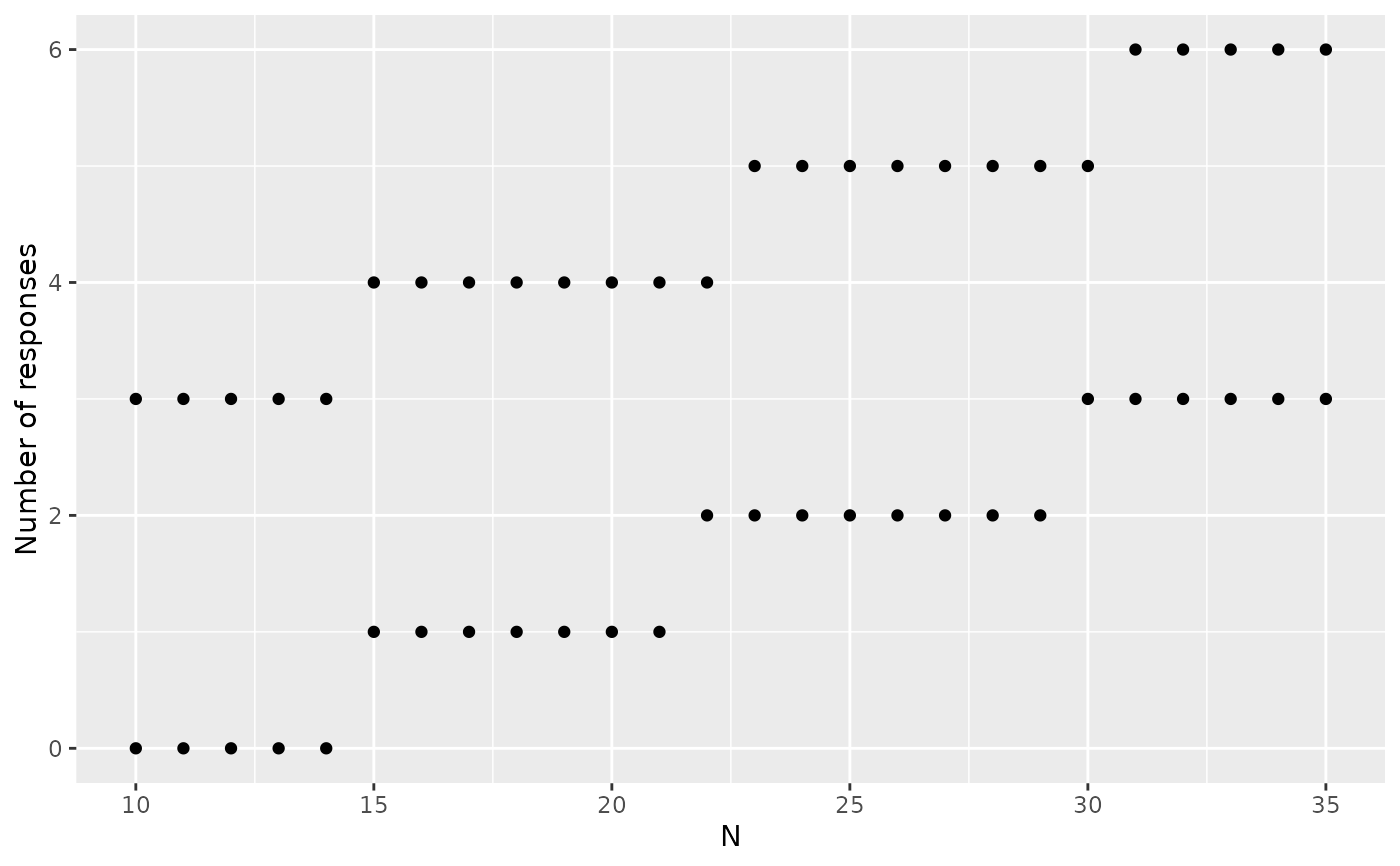
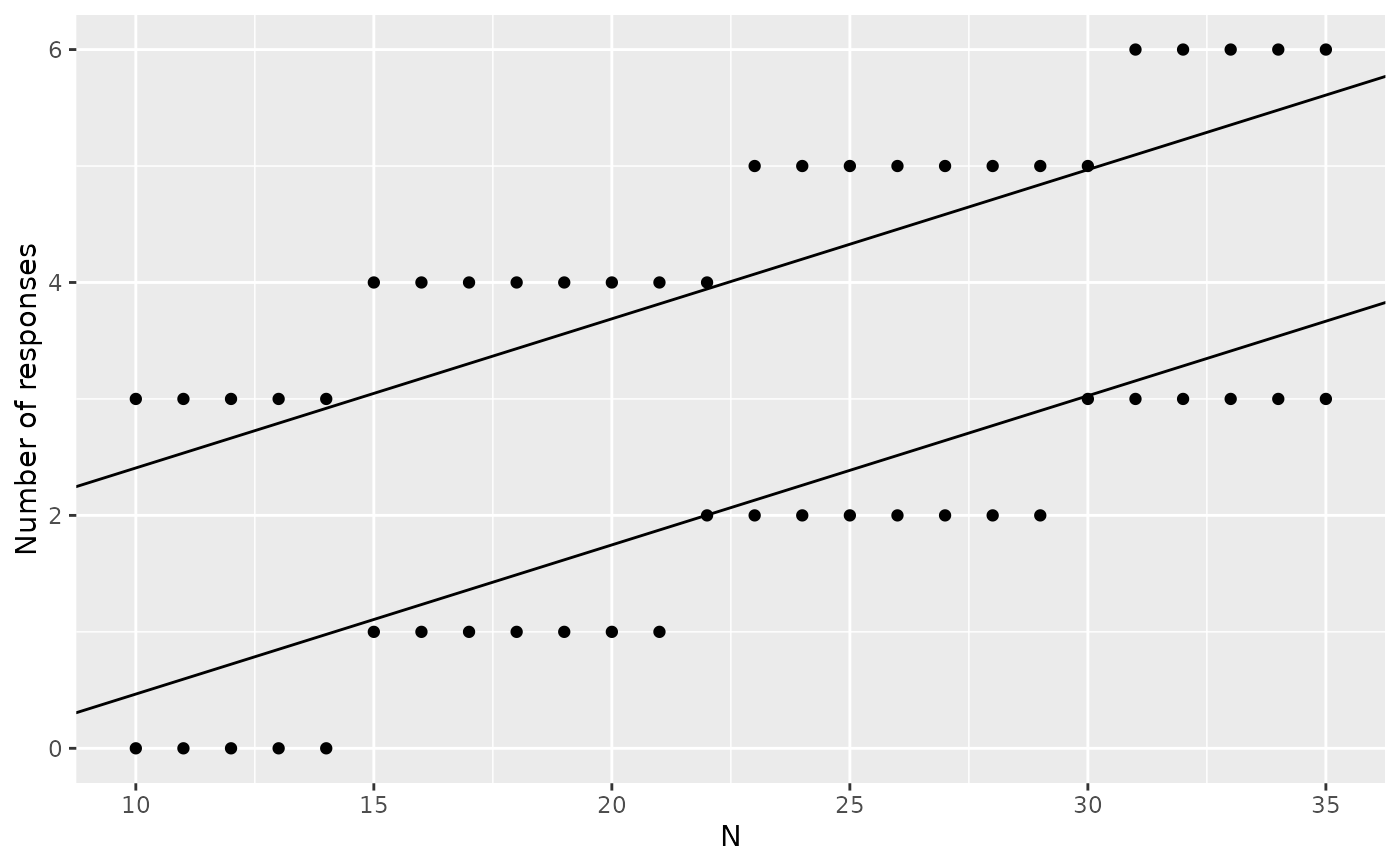
Deploying to gh-pages from @ keaven/gsDesign@06512a096569ad737f063e44681eef2b8c41d623 🚀

diff --git a/authors.html b/authors.html
@@ -5,7 +5,7 @@
       fontURL: "https://cdn.jsdelivr.net/npm/mathjax@3.2.2/es5/output/chtml/fonts/woff-v2"
     }
   };
-</script><script src="deps/jquery-3.6.0/jquery-3.6.0.min.js"></script><meta name="viewport" content="width=device-width, initial-scale=1, shrink-to-fit=no"><link href="deps/bootstrap-5.3.1/bootstrap.min.css" rel="stylesheet"><script src="deps/bootstrap-5.3.1/bootstrap.bundle.min.js"></script><link href="deps/font-awesome-6.5.2/css/all.min.css" rel="stylesheet"><link href="deps/font-awesome-6.5.2/css/v4-shims.min.css" rel="stylesheet"><script src="deps/headroom-0.11.0/headroom.min.js"></script><script src="deps/headroom-0.11.0/jQuery.headroom.min.js"></script><script src="deps/bootstrap-toc-1.0.1/bootstrap-toc.min.js"></script><script src="deps/clipboard.js-2.0.11/clipboard.min.js"></script><script src="deps/search-1.0.0/autocomplete.jquery.min.js"></script><script src="deps/search-1.0.0/fuse.min.js"></script><script src="deps/search-1.0.0/mark.min.js"></script><!-- pkgdown --><script src="pkgdown.js"></script><meta property="og:title" content="Authors and Citation"><meta property="og:image" content="https://keaven.github.io/gsDesign/logo.png"></head><body>
+</script><script src="deps/jquery-3.6.0/jquery-3.6.0.min.js"></script><meta name="viewport" content="width=device-width, initial-scale=1, shrink-to-fit=no"><link href="deps/bootstrap-5.3.8/bootstrap.min.css" rel="stylesheet"><script src="deps/bootstrap-5.3.8/bootstrap.bundle.min.js"></script><link href="deps/font-awesome-6.5.2/css/all.min.css" rel="stylesheet"><link href="deps/font-awesome-6.5.2/css/v4-shims.min.css" rel="stylesheet"><script src="deps/headroom-0.11.0/headroom.min.js"></script><script src="deps/headroom-0.11.0/jQuery.headroom.min.js"></script><script src="deps/bootstrap-toc-1.0.1/bootstrap-toc.min.js"></script><script src="deps/clipboard.js-2.0.11/clipboard.min.js"></script><script src="deps/search-1.0.0/autocomplete.jquery.min.js"></script><script src="deps/search-1.0.0/fuse.min.js"></script><script src="deps/search-1.0.0/mark.min.js"></script><!-- pkgdown --><script src="pkgdown.js"></script><meta property="og:title" content="Authors and Citation"><meta property="og:image" content="https://keaven.github.io/gsDesign/logo.png"></head><body>
     <a href="#main" class="visually-hidden-focusable">Skip to contents</a>
 
 
@@ -13,7 +13,7 @@
 
     <a class="navbar-brand me-2" href="index.html">gsDesign</a>
 
-    <small class="nav-text text-muted me-auto" data-bs-toggle="tooltip" data-bs-placement="bottom" title="">3.9.1</small>
+    <small class="nav-text text-muted me-auto" data-bs-toggle="tooltip" data-bs-placement="bottom" title="">3.9.0.9005</small>
 
 
     <button class="navbar-toggler" type="button" data-bs-toggle="collapse" data-bs-target="#navbar" aria-controls="navbar" aria-expanded="false" aria-label="Toggle navigation">
@@ -56,13 +56,13 @@
 
       <p>Anderson K (2026).
 <em>gsDesign: Group Sequential Design</em>.
-R package version 3.9.1, <a href="https://keaven.github.io/gsDesign/">https://keaven.github.io/gsDesign/</a>.
+R package version 3.9.0.9005, <a href="https://keaven.github.io/gsDesign/">https://keaven.github.io/gsDesign/</a>.
 </p>
       <pre>@Manual{,
   title = {gsDesign: Group Sequential Design},
   author = {Keaven Anderson},
   year = {2026},
-  note = {R package version 3.9.1},
+  note = {R package version 3.9.0.9005},
   url = {https://keaven.github.io/gsDesign/},
 }</pre>
     </div>

diff --git a/reference/gsDesign-package.html b/reference/gsDesign-package.html
@@ -5,7 +5,7 @@
       fontURL: "https://cdn.jsdelivr.net/npm/mathjax@3.2.2/es5/output/chtml/fonts/woff-v2"
     }
   };
-</script><script src="../deps/jquery-3.6.0/jquery-3.6.0.min.js"></script><meta name="viewport" content="width=device-width, initial-scale=1, shrink-to-fit=no"><link href="../deps/bootstrap-5.3.1/bootstrap.min.css" rel="stylesheet"><script src="../deps/bootstrap-5.3.1/bootstrap.bundle.min.js"></script><link href="../deps/font-awesome-6.5.2/css/all.min.css" rel="stylesheet"><link href="../deps/font-awesome-6.5.2/css/v4-shims.min.css" rel="stylesheet"><script src="../deps/headroom-0.11.0/headroom.min.js"></script><script src="../deps/headroom-0.11.0/jQuery.headroom.min.js"></script><script src="../deps/bootstrap-toc-1.0.1/bootstrap-toc.min.js"></script><script src="../deps/clipboard.js-2.0.11/clipboard.min.js"></script><script src="../deps/search-1.0.0/autocomplete.jquery.min.js"></script><script src="../deps/search-1.0.0/fuse.min.js"></script><script src="../deps/search-1.0.0/mark.min.js"></script><!-- pkgdown --><script src="../pkgdown.js"></script><meta property="og:title" content="gsDesign: Group Sequential Design — gsDesign-package"><meta name="description" content='
+</script><script src="../deps/jquery-3.6.0/jquery-3.6.0.min.js"></script><meta name="viewport" content="width=device-width, initial-scale=1, shrink-to-fit=no"><link href="../deps/bootstrap-5.3.8/bootstrap.min.css" rel="stylesheet"><script src="../deps/bootstrap-5.3.8/bootstrap.bundle.min.js"></script><link href="../deps/font-awesome-6.5.2/css/all.min.css" rel="stylesheet"><link href="../deps/font-awesome-6.5.2/css/v4-shims.min.css" rel="stylesheet"><script src="../deps/headroom-0.11.0/headroom.min.js"></script><script src="../deps/headroom-0.11.0/jQuery.headroom.min.js"></script><script src="../deps/bootstrap-toc-1.0.1/bootstrap-toc.min.js"></script><script src="../deps/clipboard.js-2.0.11/clipboard.min.js"></script><script src="../deps/search-1.0.0/autocomplete.jquery.min.js"></script><script src="../deps/search-1.0.0/fuse.min.js"></script><script src="../deps/search-1.0.0/mark.min.js"></script><!-- pkgdown --><script src="../pkgdown.js"></script><meta property="og:title" content="gsDesign: Group Sequential Design — gsDesign-package"><meta name="description" content='
 Derives group sequential clinical trial designs and describes their properties. Particular focus on time-to-event, binary, and continuous outcomes. Largely based on methods described in Jennison, Christopher and Turnbull, Bruce W., 2000, "Group Sequential Methods with Applications to Clinical Trials" ISBN: 0-8493-0316-8.'><meta property="og:description" content='
 Derives group sequential clinical trial designs and describes their properties. Particular focus on time-to-event, binary, and continuous outcomes. Largely based on methods described in Jennison, Christopher and Turnbull, Bruce W., 2000, "Group Sequential Methods with Applications to Clinical Trials" ISBN: 0-8493-0316-8.'><meta property="og:image" content="https://keaven.github.io/gsDesign/logo.png"></head><body>
     <a href="#main" class="visually-hidden-focusable">Skip to contents</a>
@@ -15,7 +15,7 @@ Derives group sequential clinical trial designs and describes their properties. 
 
     <a class="navbar-brand me-2" href="../index.html">gsDesign</a>
 
-    <small class="nav-text text-muted me-auto" data-bs-toggle="tooltip" data-bs-placement="bottom" title="">3.9.1</small>
+    <small class="nav-text text-muted me-auto" data-bs-toggle="tooltip" data-bs-placement="bottom" title="">3.9.0.9005</small>
 
 
     <button class="navbar-toggler" type="button" data-bs-toggle="collapse" data-bs-target="#navbar" aria-controls="navbar" aria-expanded="false" aria-label="Toggle navigation">
@@ -57,7 +57,8 @@ Derives group sequential clinical trial designs and describes their properties. 
     <div class="section level2">
     <h2 id="author">Author<a class="anchor" aria-label="anchor" href="#author"></a></h2>
     <p><strong>Maintainer</strong>: Keaven Anderson <a href="mailto:[email redacted]">[email redacted]</a></p>
-<p>Other contributors:</p><ul><li><p>Merck &amp; Co., Inc., Rahway, NJ, USA and its affiliates (<a href="https://ror.org/02891sr49" class="external-link">ROR</a>) [copyright holder]</p></li>
+<p>Authors:</p><ul><li><p>Keaven Anderson <a href="mailto:[email redacted]">[email redacted]</a></p></li>
+</ul><p>Other contributors:</p><ul><li><p>Merck &amp; Co., Inc., Rahway, NJ, USA and its affiliates (<a href="https://ror.org/02891sr49" class="external-link">ROR</a>) [copyright holder]</p></li>
 </ul></div>
 
   </main><aside class="col-md-3"><nav id="toc" aria-label="Table of contents"><h2>On this page</h2>

diff --git a/404.html b/404.html
@@ -18,8 +18,8 @@
     }
   };
 </script><script src="https://keaven.github.io/gsDesign/deps/jquery-3.6.0/jquery-3.6.0.min.js"></script><meta name="viewport" content="width=device-width, initial-scale=1, shrink-to-fit=no">
-<link href="https://keaven.github.io/gsDesign/deps/bootstrap-5.3.1/bootstrap.min.css" rel="stylesheet">
-<script src="https://keaven.github.io/gsDesign/deps/bootstrap-5.3.1/bootstrap.bundle.min.js"></script><link href="https://keaven.github.io/gsDesign/deps/font-awesome-6.5.2/css/all.min.css" rel="stylesheet">
+<link href="https://keaven.github.io/gsDesign/deps/bootstrap-5.3.8/bootstrap.min.css" rel="stylesheet">
+<script src="https://keaven.github.io/gsDesign/deps/bootstrap-5.3.8/bootstrap.bundle.min.js"></script><link href="https://keaven.github.io/gsDesign/deps/font-awesome-6.5.2/css/all.min.css" rel="stylesheet">
 <link href="https://keaven.github.io/gsDesign/deps/font-awesome-6.5.2/css/v4-shims.min.css" rel="stylesheet">
 <script src="https://keaven.github.io/gsDesign/deps/headroom-0.11.0/headroom.min.js"></script><script src="https://keaven.github.io/gsDesign/deps/headroom-0.11.0/jQuery.headroom.min.js"></script><script src="https://keaven.github.io/gsDesign/deps/bootstrap-toc-1.0.1/bootstrap-toc.min.js"></script><script src="https://keaven.github.io/gsDesign/deps/clipboard.js-2.0.11/clipboard.min.js"></script><script src="https://keaven.github.io/gsDesign/deps/search-1.0.0/autocomplete.jquery.min.js"></script><script src="https://keaven.github.io/gsDesign/deps/search-1.0.0/fuse.min.js"></script><script src="https://keaven.github.io/gsDesign/deps/search-1.0.0/mark.min.js"></script><!-- pkgdown --><script src="https://keaven.github.io/gsDesign/pkgdown.js"></script><meta property="og:title" content="Page not found (404)">
 <meta property="og:image" content="https://keaven.github.io/gsDesign/logo.png">
@@ -32,7 +32,7 @@
 
     <a class="navbar-brand me-2" href="https://keaven.github.io/gsDesign/index.html">gsDesign</a>
 
-    <small class="nav-text text-muted me-auto" data-bs-toggle="tooltip" data-bs-placement="bottom" title="">3.9.1</small>
+    <small class="nav-text text-muted me-auto" data-bs-toggle="tooltip" data-bs-placement="bottom" title="">3.9.0.9005</small>
 
 
     <button class="navbar-toggler" type="button" data-bs-toggle="collapse" data-bs-target="#navbar" aria-controls="navbar" aria-expanded="false" aria-label="Toggle navigation">

diff --git a/articles/ConditionalErrorSpending.html b/articles/ConditionalErrorSpending.html
@@ -18,8 +18,8 @@
     }
   };
 </script><script src="../deps/jquery-3.6.0/jquery-3.6.0.min.js"></script><meta name="viewport" content="width=device-width, initial-scale=1, shrink-to-fit=no">
-<link href="../deps/bootstrap-5.3.1/bootstrap.min.css" rel="stylesheet">
-<script src="../deps/bootstrap-5.3.1/bootstrap.bundle.min.js"></script><link href="../deps/font-awesome-6.5.2/css/all.min.css" rel="stylesheet">
+<link href="../deps/bootstrap-5.3.8/bootstrap.min.css" rel="stylesheet">
+<script src="../deps/bootstrap-5.3.8/bootstrap.bundle.min.js"></script><link href="../deps/font-awesome-6.5.2/css/all.min.css" rel="stylesheet">
 <link href="../deps/font-awesome-6.5.2/css/v4-shims.min.css" rel="stylesheet">
 <script src="../deps/headroom-0.11.0/headroom.min.js"></script><script src="../deps/headroom-0.11.0/jQuery.headroom.min.js"></script><script src="../deps/bootstrap-toc-1.0.1/bootstrap-toc.min.js"></script><script src="../deps/clipboard.js-2.0.11/clipboard.min.js"></script><script src="../deps/search-1.0.0/autocomplete.jquery.min.js"></script><script src="../deps/search-1.0.0/fuse.min.js"></script><script src="../deps/search-1.0.0/mark.min.js"></script><!-- pkgdown --><script src="../pkgdown.js"></script><meta property="og:title" content="Conditional error spending functions">
 </head>
@@ -31,7 +31,7 @@
 
     <a class="navbar-brand me-2" href="../index.html">gsDesign</a>
 
-    <small class="nav-text text-muted me-auto" data-bs-toggle="tooltip" data-bs-placement="bottom" title="">3.9.1</small>
+    <small class="nav-text text-muted me-auto" data-bs-toggle="tooltip" data-bs-placement="bottom" title="">3.9.0.9005</small>
 
 
     <button class="navbar-toggler" type="button" data-bs-toggle="collapse" data-bs-target="#navbar" aria-controls="navbar" aria-expanded="false" aria-label="Toggle navigation">

diff --git a/articles/ConditionalPowerPlot.html b/articles/ConditionalPowerPlot.html
@@ -18,8 +18,8 @@
     }
   };
 </script><script src="../deps/jquery-3.6.0/jquery-3.6.0.min.js"></script><meta name="viewport" content="width=device-width, initial-scale=1, shrink-to-fit=no">
-<link href="../deps/bootstrap-5.3.1/bootstrap.min.css" rel="stylesheet">
-<script src="../deps/bootstrap-5.3.1/bootstrap.bundle.min.js"></script><link href="../deps/font-awesome-6.5.2/css/all.min.css" rel="stylesheet">
+<link href="../deps/bootstrap-5.3.8/bootstrap.min.css" rel="stylesheet">
+<script src="../deps/bootstrap-5.3.8/bootstrap.bundle.min.js"></script><link href="../deps/font-awesome-6.5.2/css/all.min.css" rel="stylesheet">
 <link href="../deps/font-awesome-6.5.2/css/v4-shims.min.css" rel="stylesheet">
 <script src="../deps/headroom-0.11.0/headroom.min.js"></script><script src="../deps/headroom-0.11.0/jQuery.headroom.min.js"></script><script src="../deps/bootstrap-toc-1.0.1/bootstrap-toc.min.js"></script><script src="../deps/clipboard.js-2.0.11/clipboard.min.js"></script><script src="../deps/search-1.0.0/autocomplete.jquery.min.js"></script><script src="../deps/search-1.0.0/fuse.min.js"></script><script src="../deps/search-1.0.0/mark.min.js"></script><!-- pkgdown --><script src="../pkgdown.js"></script><meta property="og:title" content="Conditional power and conditional error">
 </head>
@@ -31,7 +31,7 @@
 
     <a class="navbar-brand me-2" href="../index.html">gsDesign</a>
 
-    <small class="nav-text text-muted me-auto" data-bs-toggle="tooltip" data-bs-placement="bottom" title="">3.9.1</small>
+    <small class="nav-text text-muted me-auto" data-bs-toggle="tooltip" data-bs-placement="bottom" title="">3.9.0.9005</small>
 
 
     <button class="navbar-toggler" type="button" data-bs-toggle="collapse" data-bs-target="#navbar" aria-controls="navbar" aria-expanded="false" aria-label="Toggle navigation">

diff --git a/articles/GentleIntroductionToGSD.html b/articles/GentleIntroductionToGSD.html
@@ -18,8 +18,8 @@
     }
   };
 </script><script src="../deps/jquery-3.6.0/jquery-3.6.0.min.js"></script><meta name="viewport" content="width=device-width, initial-scale=1, shrink-to-fit=no">
-<link href="../deps/bootstrap-5.3.1/bootstrap.min.css" rel="stylesheet">
-<script src="../deps/bootstrap-5.3.1/bootstrap.bundle.min.js"></script><link href="../deps/font-awesome-6.5.2/css/all.min.css" rel="stylesheet">
+<link href="../deps/bootstrap-5.3.8/bootstrap.min.css" rel="stylesheet">
+<script src="../deps/bootstrap-5.3.8/bootstrap.bundle.min.js"></script><link href="../deps/font-awesome-6.5.2/css/all.min.css" rel="stylesheet">
 <link href="../deps/font-awesome-6.5.2/css/v4-shims.min.css" rel="stylesheet">
 <script src="../deps/headroom-0.11.0/headroom.min.js"></script><script src="../deps/headroom-0.11.0/jQuery.headroom.min.js"></script><script src="../deps/bootstrap-toc-1.0.1/bootstrap-toc.min.js"></script><script src="../deps/clipboard.js-2.0.11/clipboard.min.js"></script><script src="../deps/search-1.0.0/autocomplete.jquery.min.js"></script><script src="../deps/search-1.0.0/fuse.min.js"></script><script src="../deps/search-1.0.0/mark.min.js"></script><!-- pkgdown --><script src="../pkgdown.js"></script><meta property="og:title" content="A gentle introduction to group sequential design">
 </head>
@@ -31,7 +31,7 @@
 
     <a class="navbar-brand me-2" href="../index.html">gsDesign</a>
 
-    <small class="nav-text text-muted me-auto" data-bs-toggle="tooltip" data-bs-placement="bottom" title="">3.9.1</small>
+    <small class="nav-text text-muted me-auto" data-bs-toggle="tooltip" data-bs-placement="bottom" title="">3.9.0.9005</small>
 
 
     <button class="navbar-toggler" type="button" data-bs-toggle="collapse" data-bs-target="#navbar" aria-controls="navbar" aria-expanded="false" aria-label="Toggle navigation">

diff --git a/articles/GraphicalMultiplicity.html b/articles/GraphicalMultiplicity.html
@@ -18,8 +18,8 @@
     }
   };
 </script><script src="../deps/jquery-3.6.0/jquery-3.6.0.min.js"></script><meta name="viewport" content="width=device-width, initial-scale=1, shrink-to-fit=no">
-<link href="../deps/bootstrap-5.3.1/bootstrap.min.css" rel="stylesheet">
-<script src="../deps/bootstrap-5.3.1/bootstrap.bundle.min.js"></script><link href="../deps/font-awesome-6.5.2/css/all.min.css" rel="stylesheet">
+<link href="../deps/bootstrap-5.3.8/bootstrap.min.css" rel="stylesheet">
+<script src="../deps/bootstrap-5.3.8/bootstrap.bundle.min.js"></script><link href="../deps/font-awesome-6.5.2/css/all.min.css" rel="stylesheet">
 <link href="../deps/font-awesome-6.5.2/css/v4-shims.min.css" rel="stylesheet">
 <script src="../deps/headroom-0.11.0/headroom.min.js"></script><script src="../deps/headroom-0.11.0/jQuery.headroom.min.js"></script><script src="../deps/bootstrap-toc-1.0.1/bootstrap-toc.min.js"></script><script src="../deps/clipboard.js-2.0.11/clipboard.min.js"></script><script src="../deps/search-1.0.0/autocomplete.jquery.min.js"></script><script src="../deps/search-1.0.0/fuse.min.js"></script><script src="../deps/search-1.0.0/mark.min.js"></script><!-- pkgdown --><script src="../pkgdown.js"></script><meta property="og:title" content="Graphical testing for group sequential design">
 </head>
@@ -31,7 +31,7 @@
 
     <a class="navbar-brand me-2" href="../index.html">gsDesign</a>
 
-    <small class="nav-text text-muted me-auto" data-bs-toggle="tooltip" data-bs-placement="bottom" title="">3.9.1</small>
+    <small class="nav-text text-muted me-auto" data-bs-toggle="tooltip" data-bs-placement="bottom" title="">3.9.0.9005</small>
 
 
     <button class="navbar-toggler" type="button" data-bs-toggle="collapse" data-bs-target="#navbar" aria-controls="navbar" aria-expanded="false" aria-label="Toggle navigation">

diff --git a/articles/HarmBound.html b/articles/HarmBound.html
@@ -18,8 +18,8 @@
     }
   };
 </script><script src="../deps/jquery-3.6.0/jquery-3.6.0.min.js"></script><meta name="viewport" content="width=device-width, initial-scale=1, shrink-to-fit=no">
-<link href="../deps/bootstrap-5.3.1/bootstrap.min.css" rel="stylesheet">
-<script src="../deps/bootstrap-5.3.1/bootstrap.bundle.min.js"></script><link href="../deps/font-awesome-6.5.2/css/all.min.css" rel="stylesheet">
+<link href="../deps/bootstrap-5.3.8/bootstrap.min.css" rel="stylesheet">
+<script src="../deps/bootstrap-5.3.8/bootstrap.bundle.min.js"></script><link href="../deps/font-awesome-6.5.2/css/all.min.css" rel="stylesheet">
 <link href="../deps/font-awesome-6.5.2/css/v4-shims.min.css" rel="stylesheet">
 <script src="../deps/headroom-0.11.0/headroom.min.js"></script><script src="../deps/headroom-0.11.0/jQuery.headroom.min.js"></script><script src="../deps/bootstrap-toc-1.0.1/bootstrap-toc.min.js"></script><script src="../deps/clipboard.js-2.0.11/clipboard.min.js"></script><script src="../deps/search-1.0.0/autocomplete.jquery.min.js"></script><script src="../deps/search-1.0.0/fuse.min.js"></script><script src="../deps/search-1.0.0/mark.min.js"></script><!-- pkgdown --><script src="../pkgdown.js"></script><meta property="og:title" content="Futility and harm bounds for overall survival monitoring">
 </head>
@@ -31,7 +31,7 @@
 
     <a class="navbar-brand me-2" href="../index.html">gsDesign</a>
 
-    <small class="nav-text text-muted me-auto" data-bs-toggle="tooltip" data-bs-placement="bottom" title="">3.9.1</small>
+    <small class="nav-text text-muted me-auto" data-bs-toggle="tooltip" data-bs-placement="bottom" title="">3.9.0.9005</small>
 
 
     <button class="navbar-toggler" type="button" data-bs-toggle="collapse" data-bs-target="#navbar" aria-controls="navbar" aria-expanded="false" aria-label="Toggle navigation">

diff --git a/articles/MultiSeasonRareEvents.html b/articles/MultiSeasonRareEvents.html
@@ -18,8 +18,8 @@
     }
   };
 </script><script src="../deps/jquery-3.6.0/jquery-3.6.0.min.js"></script><meta name="viewport" content="width=device-width, initial-scale=1, shrink-to-fit=no">
-<link href="../deps/bootstrap-5.3.1/bootstrap.min.css" rel="stylesheet">
-<script src="../deps/bootstrap-5.3.1/bootstrap.bundle.min.js"></script><link href="../deps/font-awesome-6.5.2/css/all.min.css" rel="stylesheet">
+<link href="../deps/bootstrap-5.3.8/bootstrap.min.css" rel="stylesheet">
+<script src="../deps/bootstrap-5.3.8/bootstrap.bundle.min.js"></script><link href="../deps/font-awesome-6.5.2/css/all.min.css" rel="stylesheet">
 <link href="../deps/font-awesome-6.5.2/css/v4-shims.min.css" rel="stylesheet">
 <script src="../deps/headroom-0.11.0/headroom.min.js"></script><script src="../deps/headroom-0.11.0/jQuery.headroom.min.js"></script><script src="../deps/bootstrap-toc-1.0.1/bootstrap-toc.min.js"></script><script src="../deps/clipboard.js-2.0.11/clipboard.min.js"></script><script src="../deps/search-1.0.0/autocomplete.jquery.min.js"></script><script src="../deps/search-1.0.0/fuse.min.js"></script><script src="../deps/search-1.0.0/mark.min.js"></script><!-- pkgdown --><script src="../pkgdown.js"></script><meta property="og:title" content="Multi-season studies for rare events">
 </head>
@@ -31,7 +31,7 @@
 
     <a class="navbar-brand me-2" href="../index.html">gsDesign</a>
 
-    <small class="nav-text text-muted me-auto" data-bs-toggle="tooltip" data-bs-placement="bottom" title="">3.9.1</small>
+    <small class="nav-text text-muted me-auto" data-bs-toggle="tooltip" data-bs-placement="bottom" title="">3.9.0.9005</small>
 
 
     <button class="navbar-toggler" type="button" data-bs-toggle="collapse" data-bs-target="#navbar" aria-controls="navbar" aria-expanded="false" aria-label="Toggle navigation">

diff --git a/articles/PoissonMixtureModel.html b/articles/PoissonMixtureModel.html
@@ -18,8 +18,8 @@
     }
   };
 </script><script src="../deps/jquery-3.6.0/jquery-3.6.0.min.js"></script><meta name="viewport" content="width=device-width, initial-scale=1, shrink-to-fit=no">
-<link href="../deps/bootstrap-5.3.1/bootstrap.min.css" rel="stylesheet">
-<script src="../deps/bootstrap-5.3.1/bootstrap.bundle.min.js"></script><link href="../deps/font-awesome-6.5.2/css/all.min.css" rel="stylesheet">
+<link href="../deps/bootstrap-5.3.8/bootstrap.min.css" rel="stylesheet">
+<script src="../deps/bootstrap-5.3.8/bootstrap.bundle.min.js"></script><link href="../deps/font-awesome-6.5.2/css/all.min.css" rel="stylesheet">
 <link href="../deps/font-awesome-6.5.2/css/v4-shims.min.css" rel="stylesheet">
 <script src="../deps/headroom-0.11.0/headroom.min.js"></script><script src="../deps/headroom-0.11.0/jQuery.headroom.min.js"></script><script src="../deps/bootstrap-toc-1.0.1/bootstrap-toc.min.js"></script><script src="../deps/clipboard.js-2.0.11/clipboard.min.js"></script><script src="../deps/search-1.0.0/autocomplete.jquery.min.js"></script><script src="../deps/search-1.0.0/fuse.min.js"></script><script src="../deps/search-1.0.0/mark.min.js"></script><!-- pkgdown --><script src="../pkgdown.js"></script><meta property="og:title" content="A cure model calendar-based design">
 </head>
@@ -31,7 +31,7 @@
 
     <a class="navbar-brand me-2" href="../index.html">gsDesign</a>
 
-    <small class="nav-text text-muted me-auto" data-bs-toggle="tooltip" data-bs-placement="bottom" title="">3.9.1</small>
+    <small class="nav-text text-muted me-auto" data-bs-toggle="tooltip" data-bs-placement="bottom" title="">3.9.0.9005</small>
 
 
     <button class="navbar-toggler" type="button" data-bs-toggle="collapse" data-bs-target="#navbar" aria-controls="navbar" aria-expanded="false" aria-label="Toggle navigation">

diff --git a/articles/SelectiveBoundTesting.html b/articles/SelectiveBoundTesting.html
@@ -18,8 +18,8 @@
     }
   };
 </script><script src="../deps/jquery-3.6.0/jquery-3.6.0.min.js"></script><meta name="viewport" content="width=device-width, initial-scale=1, shrink-to-fit=no">
-<link href="../deps/bootstrap-5.3.1/bootstrap.min.css" rel="stylesheet">
-<script src="../deps/bootstrap-5.3.1/bootstrap.bundle.min.js"></script><link href="../deps/font-awesome-6.5.2/css/all.min.css" rel="stylesheet">
+<link href="../deps/bootstrap-5.3.8/bootstrap.min.css" rel="stylesheet">
+<script src="../deps/bootstrap-5.3.8/bootstrap.bundle.min.js"></script><link href="../deps/font-awesome-6.5.2/css/all.min.css" rel="stylesheet">
 <link href="../deps/font-awesome-6.5.2/css/v4-shims.min.css" rel="stylesheet">
 <script src="../deps/headroom-0.11.0/headroom.min.js"></script><script src="../deps/headroom-0.11.0/jQuery.headroom.min.js"></script><script src="../deps/bootstrap-toc-1.0.1/bootstrap-toc.min.js"></script><script src="../deps/clipboard.js-2.0.11/clipboard.min.js"></script><script src="../deps/search-1.0.0/autocomplete.jquery.min.js"></script><script src="../deps/search-1.0.0/fuse.min.js"></script><script src="../deps/search-1.0.0/mark.min.js"></script><!-- pkgdown --><script src="../pkgdown.js"></script><meta property="og:title" content="Selective bound testing at interim analyses">
 </head>
@@ -31,7 +31,7 @@
 
     <a class="navbar-brand me-2" href="../index.html">gsDesign</a>
 
-    <small class="nav-text text-muted me-auto" data-bs-toggle="tooltip" data-bs-placement="bottom" title="">3.9.1</small>
+    <small class="nav-text text-muted me-auto" data-bs-toggle="tooltip" data-bs-placement="bottom" title="">3.9.0.9005</small>
 
 
     <button class="navbar-toggler" type="button" data-bs-toggle="collapse" data-bs-target="#navbar" aria-controls="navbar" aria-expanded="false" aria-label="Toggle navigation">

diff --git a/articles/SpendingFunctionOverview.html b/articles/SpendingFunctionOverview.html
@@ -18,8 +18,8 @@
     }
   };
 </script><script src="../deps/jquery-3.6.0/jquery-3.6.0.min.js"></script><meta name="viewport" content="width=device-width, initial-scale=1, shrink-to-fit=no">
-<link href="../deps/bootstrap-5.3.1/bootstrap.min.css" rel="stylesheet">
-<script src="../deps/bootstrap-5.3.1/bootstrap.bundle.min.js"></script><link href="../deps/font-awesome-6.5.2/css/all.min.css" rel="stylesheet">
+<link href="../deps/bootstrap-5.3.8/bootstrap.min.css" rel="stylesheet">
+<script src="../deps/bootstrap-5.3.8/bootstrap.bundle.min.js"></script><link href="../deps/font-awesome-6.5.2/css/all.min.css" rel="stylesheet">
 <link href="../deps/font-awesome-6.5.2/css/v4-shims.min.css" rel="stylesheet">
 <script src="../deps/headroom-0.11.0/headroom.min.js"></script><script src="../deps/headroom-0.11.0/jQuery.headroom.min.js"></script><script src="../deps/bootstrap-toc-1.0.1/bootstrap-toc.min.js"></script><script src="../deps/clipboard.js-2.0.11/clipboard.min.js"></script><script src="../deps/search-1.0.0/autocomplete.jquery.min.js"></script><script src="../deps/search-1.0.0/fuse.min.js"></script><script src="../deps/search-1.0.0/mark.min.js"></script><!-- pkgdown --><script src="../pkgdown.js"></script><meta property="og:title" content="Spending function overview">
 </head>
@@ -31,7 +31,7 @@
 
     <a class="navbar-brand me-2" href="../index.html">gsDesign</a>
 
-    <small class="nav-text text-muted me-auto" data-bs-toggle="tooltip" data-bs-placement="bottom" title="">3.9.1</small>
+    <small class="nav-text text-muted me-auto" data-bs-toggle="tooltip" data-bs-placement="bottom" title="">3.9.0.9005</small>
 
 
     <button class="navbar-toggler" type="button" data-bs-toggle="collapse" data-bs-target="#navbar" aria-controls="navbar" aria-expanded="false" aria-label="Toggle navigation">